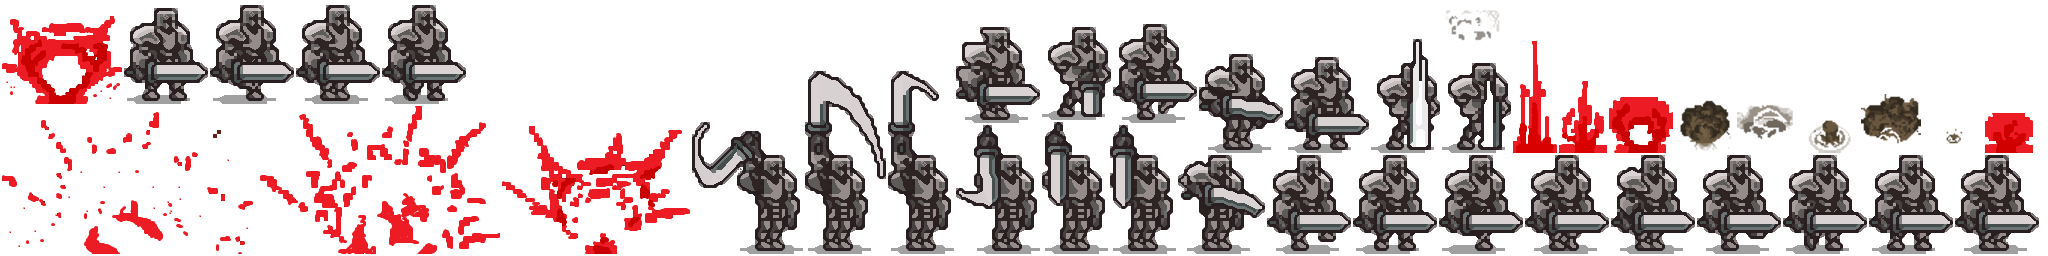
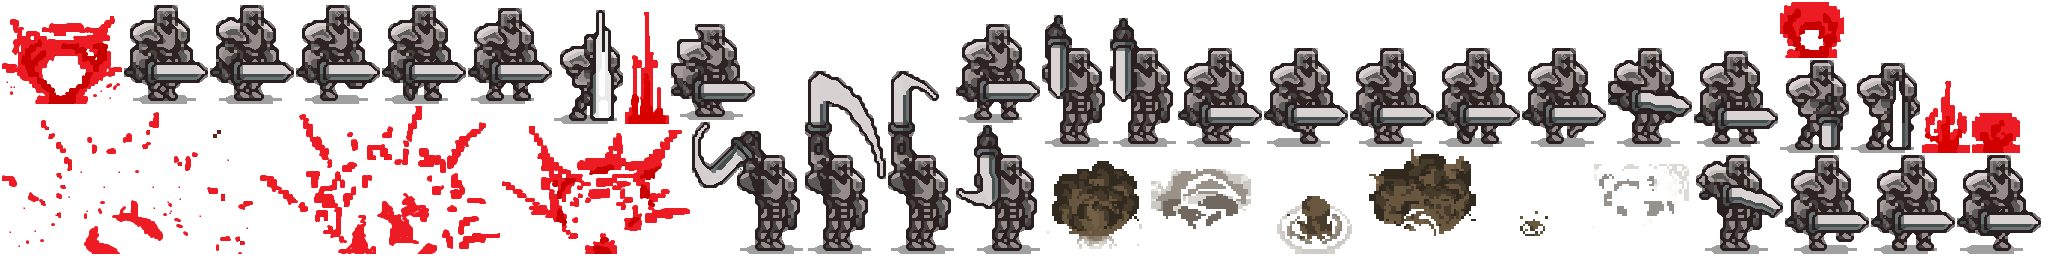
modify upgrade level and enemies's assets

diff --git a/core/src/btck/com/model/entity/player/ghost/Ghost.java b/core/src/btck/com/model/entity/player/ghost/Ghost.java
@@ -33,7 +33,7 @@ public class Ghost extends Player {
         exist = true;
 
         this.frame = new Texture(Gdx.files.internal("atlas/player/ghost1/frame.png"));
-        levelToUpgrade = 2;
+        levelToUpgrade = 10;
         normalSpeed = NORMAL_SPEED;
         currentSpeed = normalSpeed;
         maxHealth = 100;
@@ -42,12 +42,11 @@ public class Ghost extends Player {
         hitbox = new Rectangle(x, y, width, height);
 
         atlas = new TextureAtlas(Constants.GHOST_1_ATLAS_PATH);
-        animations = new Animation[4];
+        animations = new Animation[3];
 
         animations[0] = new Animation<>(FRAME_DURATION, atlas.findRegions("spr_idle"));
         animations[1] = new Animation<>(FRAME_DURATION, atlas.findRegions("spr_run"));
         animations[2] = new Animation<>(FRAME_DURATION, atlas.findRegions("spr_attack"));
-        animations[3] = new Animation<>(FRAME_DURATION, atlas.findRegions("spr_die"));
 
         width = animations[0].getKeyFrame(0).getRegionWidth();
         height = animations[0].getKeyFrame(0).getRegionHeight();
@@ -105,7 +104,7 @@ public class Ghost extends Player {
         if(currentHealth > 0){
             while(currentExp >= expToLevelUp){
                 expToLevelUp += nextLevelExp;
-                nextLevelExp += 3;
+                nextLevelExp += 2;
                 ++level;
                 if(level == levelToUpgrade) upgrade();
             }
@@ -208,7 +207,6 @@ public class Ghost extends Player {
         animations[0] = new Animation<>(FRAME_DURATION, atlas.findRegions("spr_idle"));
         animations[1] = new Animation<>(FRAME_DURATION, atlas.findRegions("spr_run"));
         animations[2] = new Animation<>(FRAME_DURATION, atlas.findRegions("spr_attack"));
-        animations[3] = new Animation<>(FRAME_DURATION, atlas.findRegions("spr_die"));
 
         width = animations[0].getKeyFrame(0).getRegionWidth();
         height = animations[0].getKeyFrame(0).getRegionHeight();
@@ -216,7 +214,7 @@ public class Ghost extends Player {
         attack.upgrade();
         for(int i = 0; i <= upgradeLevel - 2; ++i) skills.get(i).upgrade();
 
-        levelToUpgrade += 2;
+        levelToUpgrade += 10;
         IngameScreen.addTopEffect(new Upgrade(x, y));
     }
 }

diff --git a/core/src/btck/com/model/entity/enemy/archer/Archer.java b/core/src/btck/com/model/entity/enemy/archer/Archer.java
@@ -22,7 +22,7 @@ public class Archer extends Enemy {
         FRAME_DURATION = Constants.FRAME_DURATION[0];
         attackRange = 200;
         currentHealth = 4 + bonusHealth;
-        exp = 5;
+        exp = 4;
 
         normalSpeed = 100;
         currentSpeed = 100;
@@ -31,7 +31,7 @@ public class Archer extends Enemy {
 
         hitbox = new Rectangle(0, 0, width, height);
 
-        animations[0] = new Animation<>(FRAME_DURATION, atlas.findRegions("spr_spawn"));
+        animations[0] = new Animation<>(FRAME_DURATION, atlas.findRegions("spr-spawn"));
         animations[1] = new Animation<>(FRAME_DURATION, atlas.findRegions("spr_idle"));
         animations[2] = new Animation<>(FRAME_DURATION, atlas.findRegions("spr_run"));
         animations[3] = new Animation<>(FRAME_DURATION, atlas.findRegions("spr_die"));

diff --git a/core/src/btck/com/model/entity/enemy/knight/Knight.java b/core/src/btck/com/model/entity/enemy/knight/Knight.java
@@ -23,7 +23,7 @@ public class Knight extends Enemy {
 
         attackRange = 130;
         currentHealth = 6 + bonusHealth;
-        exp = 4;
+        exp = 7;
 
         normalSpeed = 100;
         currentSpeed = 100;
@@ -32,7 +32,7 @@ public class Knight extends Enemy {
 
         hitbox = new Rectangle(0, 0, width, height);
 
-        animations[0] = new Animation<>(FRAME_DURATION, atlas.findRegions("spr_spawn"));
+        animations[0] = new Animation<>(FRAME_DURATION, atlas.findRegions("spr-spawn"));
         animations[1] = new Animation<>(FRAME_DURATION, atlas.findRegions("spr_idle"));
         animations[2] = new Animation<>(FRAME_DURATION, atlas.findRegions("spr_run"));
         animations[3] = new Animation<>(FRAME_DURATION, atlas.findRegions("spr_die"));

diff --git a/core/src/btck/com/model/entity/Player.java b/core/src/btck/com/model/entity/Player.java
@@ -6,6 +6,7 @@ import btck.com.crowd_control.SlowMo;
 import btck.com.model.entity.player.Blinking;
 import btck.com.view.effect.AirStrikeCall;
 import btck.com.view.screens.IngameScreen;
+import com.badlogic.gdx.Gdx;
 import com.badlogic.gdx.graphics.Texture;
 import com.badlogic.gdx.utils.Array;
 import lombok.Getter;
@@ -37,6 +38,7 @@ public abstract class Player extends Entity{
         if(dead){
             animationIdx = 0;
             visible = false;
+            Gdx.input.setInputProcessor(null);
             IngameScreen.addTopEffect(new AirStrikeCall(x, y, true));
             SlowMo.activateAll();
             SlowMo.activateEntity(this);

diff --git a/core/src/btck/com/model/entity/player/ghost/ImpactSkill.java b/core/src/btck/com/model/entity/player/ghost/ImpactSkill.java
@@ -84,7 +84,7 @@ public class ImpactSkill extends Skill {
             this.cooldown -= 0.5f;
             hitbox.width += 10;
         }
-        this.damage = owner.getAttack().getDamage() * 3 / 2;
+        this.damage = owner.getAttack().getDamage() * 2;
     }
 
     public void end(){

diff --git a/core/src/btck/com/model/entity/enemy/gladiator/Gladiator.java b/core/src/btck/com/model/entity/enemy/gladiator/Gladiator.java
@@ -22,7 +22,7 @@ public class Gladiator extends Enemy {
         FRAME_DURATION = Constants.FRAME_DURATION[0];
         attackRange = 200;
         currentHealth = 5 + bonusHealth;
-        exp = 5;
+        exp = 6;
 
         normalSpeed = 100;
         currentSpeed = normalSpeed;
